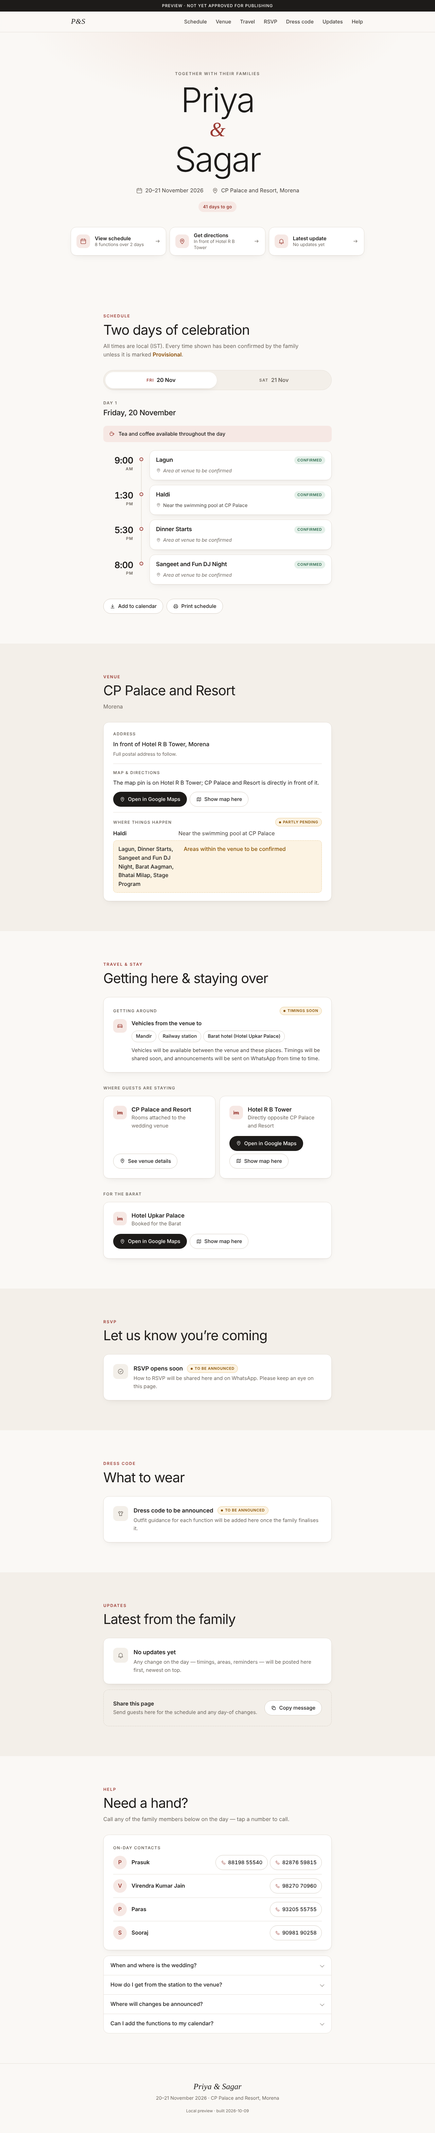
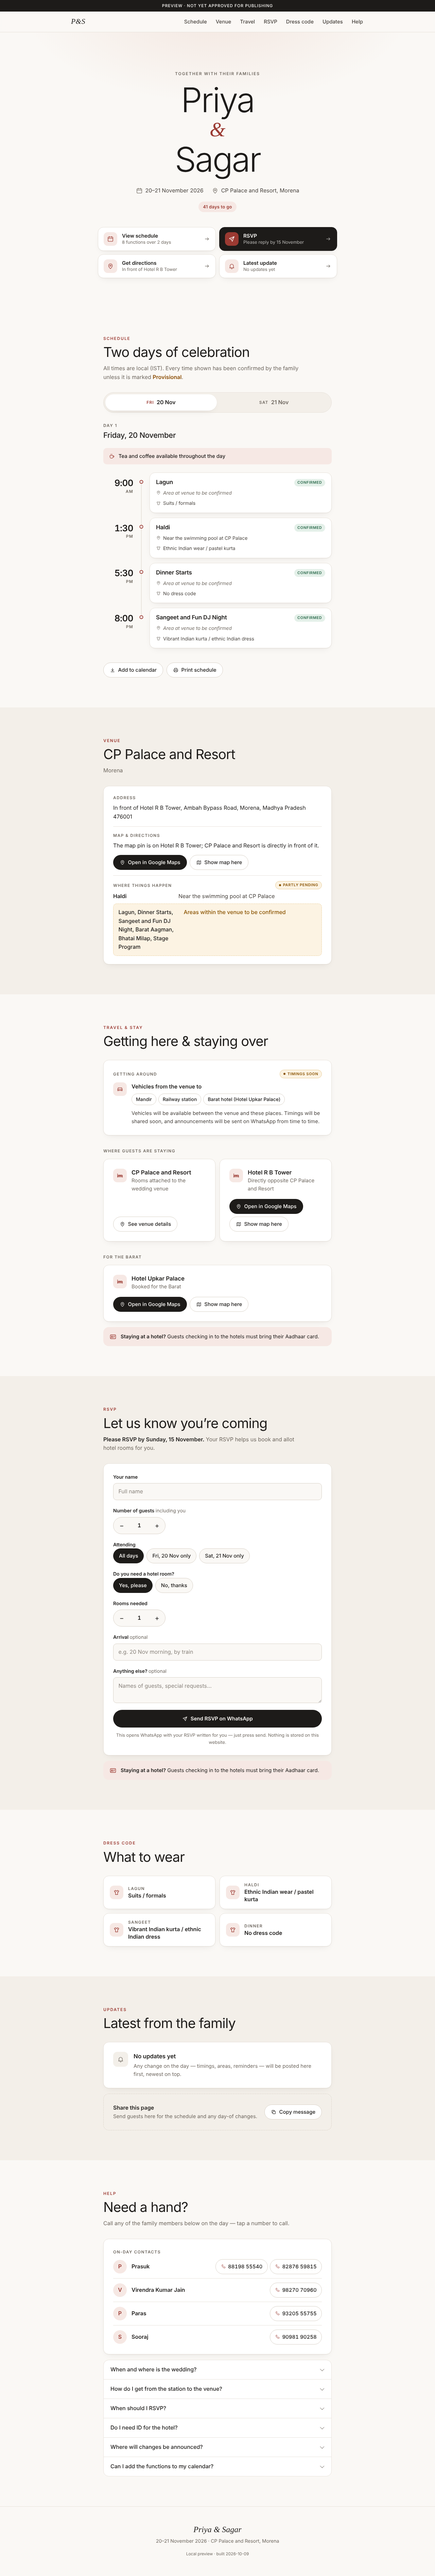
Add RSVP form, venue address, Aadhaar note and dress code
- RSVP: short form (name, guests, days, hotel room/rooms, arrival) that
  opens WhatsApp with the RSVP pre-written to the family's number; the
  site stores nothing. Deadline 15 November; plain link without JS
- Hotel check-in requires an Aadhaar card (RSVP + Travel sections, FAQ)
- Full venue address
- Dress code for Lagun, Haldi, Sangeet and dinners, also shown on the
  matching schedule cards
- RSVP added to the hero quick actions; acceptance checks now 57

Claude-Session: https://claude.ai/code/session_01SZ5tZi453V9SRYdkjpXhq7

diff --git a/src/assets/base.css b/src/assets/base.css
@@ -111,7 +111,8 @@ img, svg { display: block; }
 }
 
 .quick-actions { margin-top: 2.75rem; display: grid; gap: .625rem; text-align: left; }
-@media (min-width: 40rem) { .quick-actions { grid-template-columns: repeat(3, 1fr); } }
+@media (min-width: 36rem) { .quick-actions { grid-template-columns: repeat(2, 1fr); } }
+@media (min-width: 48rem) { .quick-actions { max-width: 44rem; margin-inline: auto; } }
 .quick {
   display: flex; align-items: center; gap: .875rem; min-height: 64px; padding: .875rem 1rem;
   background: var(--surface); border: 1px solid var(--line); border-radius: var(--radius);
@@ -125,6 +126,10 @@ img, svg { display: block; }
   border-radius: 12px; background: var(--accent-soft); color: var(--accent);
 }
 .quick__text { display: flex; flex-direction: column; min-width: 0; }
+.quick--primary { background: var(--ink); border-color: var(--ink); color: var(--bg); }
+.quick--primary:hover { border-color: var(--accent); }
+.quick--primary .quick__icon { background: var(--accent); color: var(--accent-ink); }
+.quick--primary .quick__hint, .quick--primary > .icon { color: color-mix(in srgb, var(--bg) 70%, transparent); }
 .quick__label { font-weight: 600; font-size: .9375rem; line-height: 1.3; }
 .quick__hint { color: var(--muted); font-size: .8125rem; line-height: 1.35; }
 
@@ -313,9 +318,59 @@ main > section.section:nth-of-type(odd) { background: var(--surface-tint); }
 /* RSVP & dress code */
 .empty__row { display: flex; flex-wrap: wrap; align-items: center; gap: .375rem .75rem; }
 .rsvp { display: grid; gap: 1rem; justify-items: start; }
-.dress { list-style: none; margin: 0; display: grid; gap: .75rem; }
-.dress li { display: grid; gap: .1rem; }
-@media (min-width: 40rem) { .dress li { grid-template-columns: 11rem 1fr; gap: 1rem; } }
+.deadline { color: var(--ink); font-weight: 600; }
+.js .rsvp-fallback { display: none; }
+.rsvp-fallback { display: grid; gap: 1rem; justify-items: start; }
+.rsvp-form { display: grid; gap: 1.25rem; }
+.field { display: grid; gap: .45rem; margin: 0; padding: 0; border: 0; min-width: 0; }
+.field__label { padding: 0; font-size: .875rem; font-weight: 600; }
+.field__hint { font-weight: 400; color: var(--muted); }
+.input {
+  width: 100%; min-height: 48px; padding: .7rem .9rem; font: inherit; color: var(--ink);
+  background: var(--bg); border: 1px solid var(--line-strong); border-radius: var(--radius-sm);
+  transition: border-color .2s, box-shadow .2s;
+}
+textarea.input { resize: vertical; min-height: 72px; }
+.input::placeholder { color: var(--muted); opacity: .8; }
+.input:focus { outline: none; border-color: var(--accent); box-shadow: 0 0 0 3px var(--accent-soft); }
+.input:user-invalid { border-color: var(--accent); }
+.stepper { display: inline-flex; align-items: stretch; width: max-content; border: 1px solid var(--line-strong); border-radius: 999px; overflow: hidden; background: var(--bg); }
+.stepper__btn { width: 48px; min-height: 48px; border: 0; background: transparent; font-size: 1.25rem; cursor: pointer; color: var(--ink); }
+.stepper__btn:hover { background: var(--surface-tint); }
+.stepper__input {
+  width: 3.5rem; min-height: 48px; padding: 0; text-align: center; border: 0; border-radius: 0; background: transparent;
+  font-weight: 600; font-variant-numeric: tabular-nums; -moz-appearance: textfield;
+}
+.stepper__input:focus { box-shadow: inset 0 0 0 2px var(--accent); }
+.stepper__input::-webkit-inner-spin-button, .stepper__input::-webkit-outer-spin-button { -webkit-appearance: none; margin: 0; }
+.choices { display: flex; flex-wrap: wrap; gap: .5rem; }
+.choice { position: relative; }
+.choice input { position: absolute; opacity: 0; inset: 0; margin: 0; cursor: pointer; }
+.choice span {
+  display: inline-flex; align-items: center; min-height: 44px; padding: 0 1rem; border-radius: 999px;
+  border: 1px solid var(--line-strong); background: var(--bg); font-size: .9375rem; font-weight: 500;
+  transition: background-color .2s, border-color .2s, color .2s;
+}
+.choice input:checked + span { background: var(--ink); border-color: var(--ink); color: var(--bg); }
+.choice input:focus-visible + span { outline: 2px solid var(--accent); outline-offset: 2px; }
+.btn--block { width: 100%; min-height: 52px; font-weight: 600; }
+.rsvp__fine { margin-top: -.5rem; color: var(--muted); font-size: .8125rem; text-align: center; }
+
+.callout {
+  display: flex; gap: .75rem; align-items: flex-start; margin-top: 1rem; padding: 1rem 1.125rem;
+  border-radius: var(--radius); background: var(--accent-soft); color: var(--ink); font-size: .9375rem;
+}
+.callout .icon { margin-top: .1rem; color: var(--accent); width: 1.4em; height: 1.4em; }
+.callout strong { font-weight: 600; }
+
+.dress { list-style: none; margin: 0; padding: 0; display: grid; gap: .75rem; }
+@media (min-width: 40rem) { .dress { grid-template-columns: repeat(2, 1fr); } }
+.dress__item {
+  display: flex; gap: .875rem; align-items: center; padding: 1rem 1.125rem;
+  background: var(--surface); border: 1px solid var(--line); border-radius: var(--radius); box-shadow: var(--shadow);
+}
+.dress__label { font-size: .75rem; font-weight: 600; letter-spacing: .12em; text-transform: uppercase; color: var(--muted); }
+.dress__guidance { font-weight: 600; line-height: 1.4; }
 
 /* Updates */
 .updates { list-style: none; margin: 0; padding: 0; display: grid; gap: .75rem; }
@@ -396,7 +451,7 @@ main > section.section:nth-of-type(odd) { background: var(--surface-tint); }
   :root { --bg: #fff; --surface: #fff; --surface-tint: #fff; --shadow: none; }
   body { font-size: 11pt; }
   .preview-bar, .site-header, .skip-link, .quick-actions, .hero__countdown, .tabs,
-  .schedule-actions, #updates, #rsvp, #dress-code, .map, .map__actions, .site-footer__meta, .event__next { display: none !important; }
+  .schedule-actions, #updates, #rsvp, .map, .map__actions, .site-footer__meta, .event__next { display: none !important; }
   main > section.section:nth-of-type(odd) { background: none; }
   #travel, #help { break-before: page; }
   .faq { display: none; }

diff --git a/src/assets/app.js b/src/assets/app.js
@@ -95,6 +95,44 @@
     });
   });
 
+  // ── RSVP: compose a WhatsApp message; nothing is stored or sent by the site ──
+  var form = document.querySelector('[data-rsvp-form]');
+  if (form) {
+    form.hidden = false;
+    var rooms = form.querySelector('[data-rooms]');
+    var syncRooms = function () { rooms.hidden = form.elements.room.value !== 'Yes'; };
+    Array.prototype.forEach.call(form.elements.room, function (r) { r.addEventListener('change', syncRooms); });
+    syncRooms();
+
+    Array.prototype.forEach.call(form.querySelectorAll('[data-step]'), function (btn) {
+      btn.addEventListener('click', function () {
+        var input = btn.parentNode.querySelector('input');
+        var next = (parseInt(input.value, 10) || 0) + parseInt(btn.getAttribute('data-step'), 10);
+        input.value = Math.min(Number(input.max), Math.max(Number(input.min), next));
+      });
+    });
+
+    form.addEventListener('submit', function (e) {
+      e.preventDefault();
+      if (!form.reportValidity()) return;
+      var f = form.elements;
+      var lines = [
+        'Hi! RSVP for ' + form.getAttribute('data-couple') + '’s wedding (' + form.getAttribute('data-dates') + ')',
+        '',
+        'Name: ' + f.name.value.trim(),
+        'Guests (including me): ' + f.guests.value,
+        'Attending: ' + f.days.value,
+        'Hotel room needed: ' + f.room.value + (f.room.value === 'Yes' ? ' (' + f.rooms.value + (f.rooms.value === '1' ? ' room)' : ' rooms)') : '')
+      ];
+      if (f.arrival.value.trim()) lines.push('Arrival: ' + f.arrival.value.trim());
+      if (f.note.value.trim()) lines.push('Note: ' + f.note.value.trim());
+      var url = form.getAttribute('data-wa-url') + '?text=' + encodeURIComponent(lines.join('\n'));
+      var win = window.open(url, '_blank');
+      if (win) win.opener = null;
+      else location.href = url;
+    });
+  }
+
   // ── Print ──────────────────────────────────────────────────
   var printBtn = document.querySelector('[data-action="print"]');
   if (printBtn && window.print) {

diff --git a/VALIDATION.md b/VALIDATION.md
@@ -6,7 +6,7 @@ Run everything with:
 
 ```bash
 npm install
-npm run check      # unit tests + build + 46 acceptance checks
+npm run check      # unit tests + build + 57 acceptance checks
 ```
 
 ## Why private items cannot reach the public output
@@ -29,15 +29,17 @@ The unit tests (`test/public-data.test.mjs`) also check that the filter still dr
 | Haldi location "Near the swimming pool at CP Palace" | Pass | Shown on the Haldi card and in the Venue section |
 | Tea/coffee note under 20 November | Pass | Shown in the 20 Nov panel only, not as a timed event |
 | Every schedule item shows a timing status | Pass | 8 "Confirmed" pills |
-| Venue location and map | Pass | Landmark "In front of Hotel R B Tower" and the approved Google Maps link. The full postal address is still marked "to follow" |
+| Venue address and map | Pass | "In front of Hotel R B Tower, Ambah Bypass Road, Morena, Madhya Pradesh 476001" and the approved Google Maps link |
 | On-day contacts | Pass | Every number in `contacts` is a tap-to-call link, and there are no others |
 | Travel & stay | Pass | CP Palace and Resort, Hotel R B Tower (guests) and Hotel Upkar Palace (Barat) are listed. Vehicle destinations are listed with timings pending |
-| RSVP and dress code | Pass | Both show a visible "To be announced" state until the family supplies details |
-| Missing details visibly pending | Pass | Amber badges with dashed boxes for the postal address, areas within the venue, vehicle timings, RSVP and dress code. Nothing is made up |
+| RSVP | Pass | The deadline (Sunday, 15 November) is shown. The form opens WhatsApp addressed only to the approved RSVP number, and a plain WhatsApp link is shown when JavaScript is off. The site has no form action, network call or storage, so it collects nothing |
+| Aadhaar requirement | Pass | Shown in both the RSVP and Travel & stay sections |
+| Dress code | Pass | Lagun, Haldi, Sangeet and Dinner guidance is shown in the Dress code section and on each matching schedule card |
+| Missing details visibly pending | Pass | Amber badges with dashed boxes for areas within the venue and vehicle timings. Nothing is made up |
 | Legible at 360px | Pass | Headless Chromium at 360×800: no horizontal scroll (`scrollWidth` = 360), see `docs/screenshots/mobile-360.png` |
 | Keyboard navigable | Pass | Tab order: skip link → monogram → nav → quick actions → day tab → day panel → calendar/print. Arrow keys, Home and End switch day tabs. All interactive targets are ≥ 44px tall |
 | Works without JavaScript | Pass | Both days are shown one after the other; tabs, share and print are progressive enhancements |
-| No domain, hosting, live link, WhatsApp API, paid tool or message send | Pass | The only external URLs in the output are the map links approved in `event-data.json`. Google Maps is contacted only when a guest presses "Show map here" (no iframe in the page source). Sharing uses the device's own share sheet or copy-to-clipboard only, and only when a guest presses the button. The preview is marked `noindex` |
+| No domain, hosting, live link, WhatsApp API, paid tool or message send | Pass | The only external URLs in the output are the map links and the RSVP WhatsApp chat link approved in `event-data.json`. RSVP uses a WhatsApp click-to-chat link that the guest sends themselves, not the WhatsApp API. Google Maps is contacted only when a guest presses "Show map here" (no iframe in the page source). Sharing uses the device's own share sheet or copy-to-clipboard only, and only when a guest presses the button. The preview is marked `noindex` |
 
 ## Pre-publish review aids
 

diff --git a/requirements.md b/requirements.md
@@ -72,10 +72,12 @@ The 11:00 AM Lagun Guest lunch (20 Nov) and the 11:30 PM Phere and other rituals
 
 Supplied since milestone 1: the venue map link (pin on Hotel R B Tower, directly opposite CP Palace and Resort), on-day contacts, guest hotels (CP Palace and Resort, Hotel R B Tower), the Barat hotel (Hotel Upkar Palace), and confirmation that the site will have RSVP, travel/stay and dress code sections. Vehicles will run between the venue, the Mandir, the railway station and the Barat hotel.
 
-Still unresolved: the full postal address, internal venue locations for most functions, vehicle timings, the RSVP method and deadline, dress code details, and audience segmentation for private WhatsApp material. Treat them as unresolved, not as blanks to fill with assumptions; the site shows each as "to be announced".
+Also supplied: the full venue address (In front of Hotel R B Tower, Ambah Bypass Road, Morena, Madhya Pradesh 476001); RSVP by 15 November via a WhatsApp message to the family, to help book and allot hotel rooms; the Aadhaar card requirement for hotel check-in; and dress codes for Lagun, Haldi, Sangeet and dinners.
+
+Still unresolved: internal venue locations for most functions, vehicle timings, dress code for Barat Aagman, Bhatai Milap and the Stage Program, and audience segmentation for private WhatsApp material. Treat them as unresolved, not as blanks to fill with assumptions; the site shows each as "to be announced".
 
 ## Out of scope for milestone 1
 
 - Public deployment, domain purchase, hosting purchase, or paid WhatsApp service.
 - Automated WhatsApp sending or collection of guest contacts.
-- Collecting RSVP responses on the site itself, invitation authentication, live location tracking, photography gallery, or payment features. (The RSVP section links out once the family chooses a method.)
+- Collecting RSVP responses on the site itself, invitation authentication, live location tracking, photography gallery, or payment features. (RSVPs are sent by the guest on WhatsApp; the site stores nothing.)

diff --git a/README.md b/README.md
@@ -10,7 +10,7 @@ A mobile-first static site with Welcome, Schedule, Venue, Travel & stay, RSVP, D
 npm install
 npm run build      # validates the data and writes dist/
 npm run preview    # serves dist/ at http://localhost:4173
-npm run check      # unit tests + 46 acceptance checks (see VALIDATION.md)
+npm run check      # unit tests + 57 acceptance checks (see VALIDATION.md)
 ```
 
 You can also open `dist/index.html` directly in a browser.
@@ -52,8 +52,8 @@ Make all schedule changes in `event-data.json` first, validate against `event-da
 
 To fill in a section that is still "to be announced", edit `event-data.json`:
 
-- **RSVP:** set `rsvp.status` to `"confirmed"`, put the form link in `rsvp.url` and optional wording in `rsvp.note`.
-- **Dress code:** set `dress_code.status` to `"confirmed"` and add `{ "label": "Haldi", "guidance": "..." }` entries to `dress_code.items`.
+- **RSVP:** guests fill a short form (name, number of guests, days attending, hotel room and rooms needed, arrival). Pressing "Send RSVP on WhatsApp" opens WhatsApp with the RSVP already written, addressed to `rsvp.whatsapp_number`, and the guest presses send. The site itself stores nothing. To send RSVPs to someone else, change that number. To use a Google Form instead, set `rsvp.method` to `"link"` and put the form address in `rsvp.url`.
+- **Dress code:** edit `dress_code.items`. Each item's `applies_to` lists the schedule ids whose cards show that guidance.
 - **Vehicles:** update `travel.transport.note` with timings and set `travel.transport.status` to `"confirmed"`.
 
 To post a day-of update, add one approved entry to `content/updates.json`, run `npm run check`, and review the preview before publishing.
